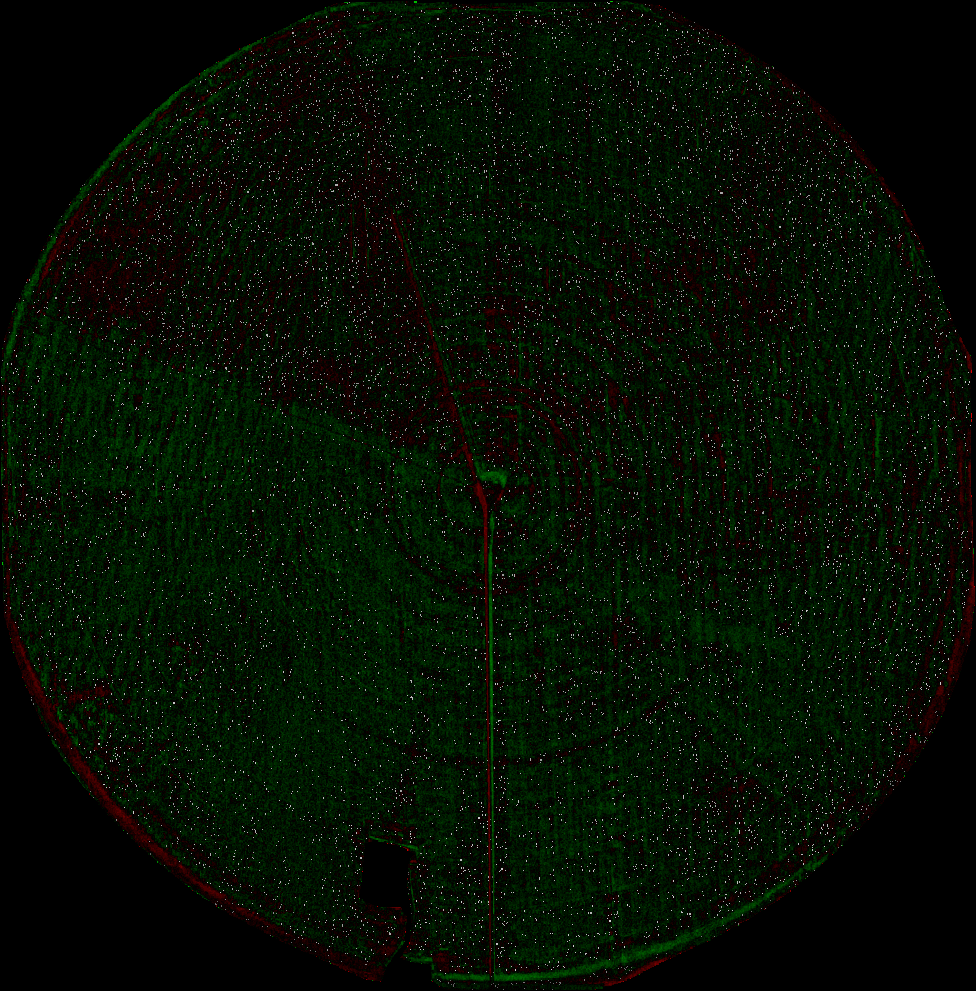
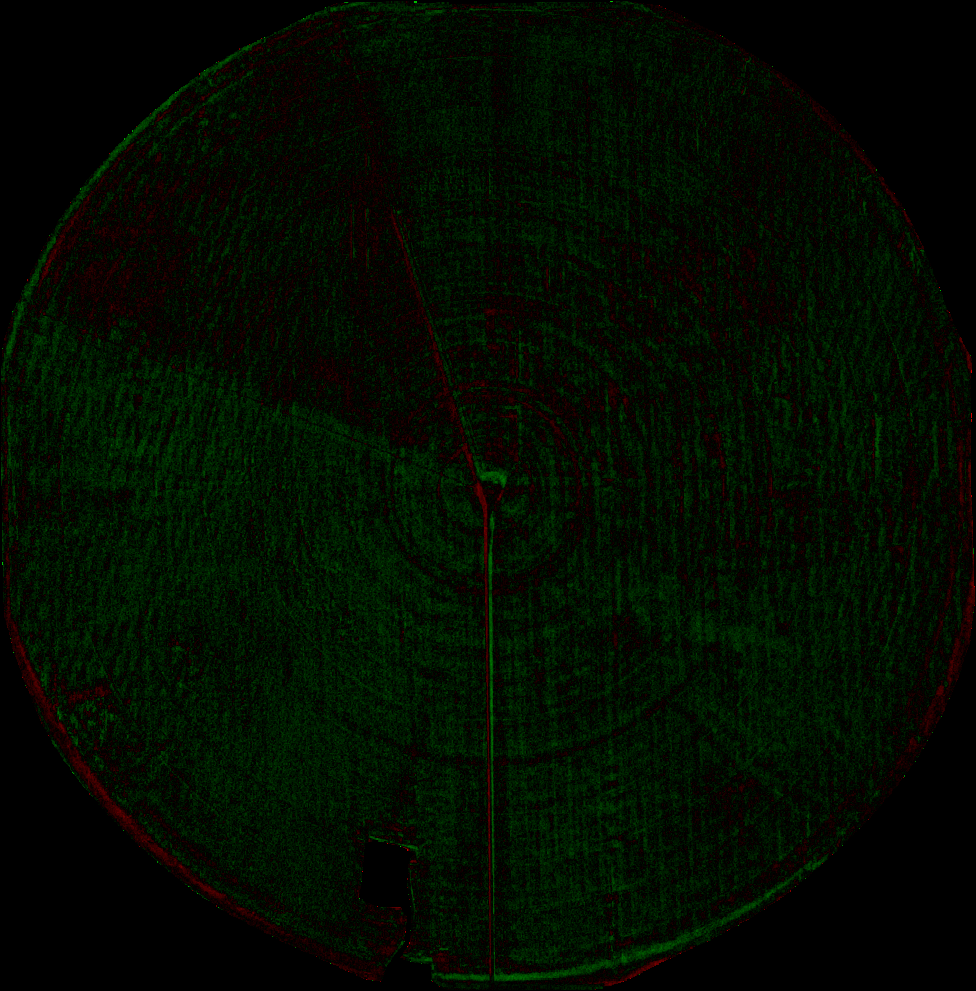
add match mode (black/keep original). Update tests. Add result color normalization

diff --git a/service/compare.go b/service/compare.go
@@ -14,6 +14,15 @@ import (
 	"github.com/gabriel-vasile/mimetype"
 )
 
+type MatchMode int
+
+const (
+	// keep matching pixels in original color
+	MATCH_MODE_KEEP_ORIGINAL MatchMode = iota
+	// replace matching pixels with black
+	MATCH_MODE_BLACK
+)
+
 type Comparer struct {
 	imageFile1 string
 	imageFile2 string
@@ -37,7 +46,7 @@ func NewComparer(image1 string, image2 string, output string) (*Comparer, error)
 	return &c, err
 }
 
-func (c *Comparer) Compare() error {
+func (c *Comparer) Compare(mode MatchMode) error {
 	log.Println("compare start")
 
 	bounds := c.image1.image.Bounds()
@@ -58,24 +67,36 @@ func (c *Comparer) Compare() error {
 			var newColor color.RGBA
 			if r1 == r2 {
 				// keep the color if it's the same
+				var matchedColor uint8
+				if mode == MATCH_MODE_KEEP_ORIGINAL {
+					matchedColor = uint8(r1 >> 8)
+				} else {
+					matchedColor = 0
+				}
 				newColor = color.RGBA{
-					R: uint8(r1 >> 8),
-					G: uint8(r1 >> 8),
-					B: uint8(r1 >> 8),
+					R: matchedColor,
+					G: matchedColor,
+					B: matchedColor,
 					A: math.MaxUint8,
 				}
 			} else if r1 < r2 {
+				// normalize r2 - r1 difference to math.MaxUint8
+				normalized := uint8(math.MaxUint8 * float64(r2-r1>>8) / float64(math.MaxUint8))
+
 				//highlight pixels with green if second image pixel is brighter
 				newColor = color.RGBA{
 					R: 0,
-					G: uint8((r2 - r1) >> 8),
+					G: normalized,
 					B: 0,
 					A: math.MaxUint8,
 				}
 			} else {
+				// normalize r1 - r2 difference to math.MaxUint8
+				normalized := uint8(math.MaxUint8 * float64(r1-r2>>8) / float64(math.MaxUint8))
+
 				//highlight pixels with red if second image pixel is darker
 				newColor = color.RGBA{
-					R: uint8((r1 - r2) >> 8),
+					R: normalized,
 					G: 0,
 					B: 0,
 					A: math.MaxUint8,

diff --git a/service/compare_test.go b/service/compare_test.go
@@ -13,6 +13,7 @@ import (
 var (
 	testImage1 = "test1.png"
 	testImage2 = "test2.png"
+	output     = "output.png"
 )
 
 type direction int
@@ -27,12 +28,12 @@ func TestComparer_Compare(t *testing.T) {
 	createTestImage(testImage1, 150, 150, DIRECTION_UP)
 	createTestImage(testImage2, 150, 150, DIRECTION_DOWN)
 
-	comparer, err := NewComparer(testImage1, testImage2)
+	comparer, err := NewComparer(testImage1, testImage2, output)
 	if err != nil {
 		t.Fatal(err)
 	}
 	// do the comparison
-	if err = comparer.Compare(); err != nil {
+	if err = comparer.Compare(MATCH_MODE_BLACK); err != nil {
 		t.Fatal(err)
 	}
 }

diff --git a/cmd/root.go b/cmd/root.go
@@ -28,7 +28,7 @@ var RootCmd = &cobra.Command{
 			return
 		}
 		// do the comparison
-		if err = comparer.Compare(); err != nil {
+		if err = comparer.Compare(service.MATCH_MODE_KEEP_ORIGINAL); err != nil {
 			log.Println(err)
 			return
 		}
